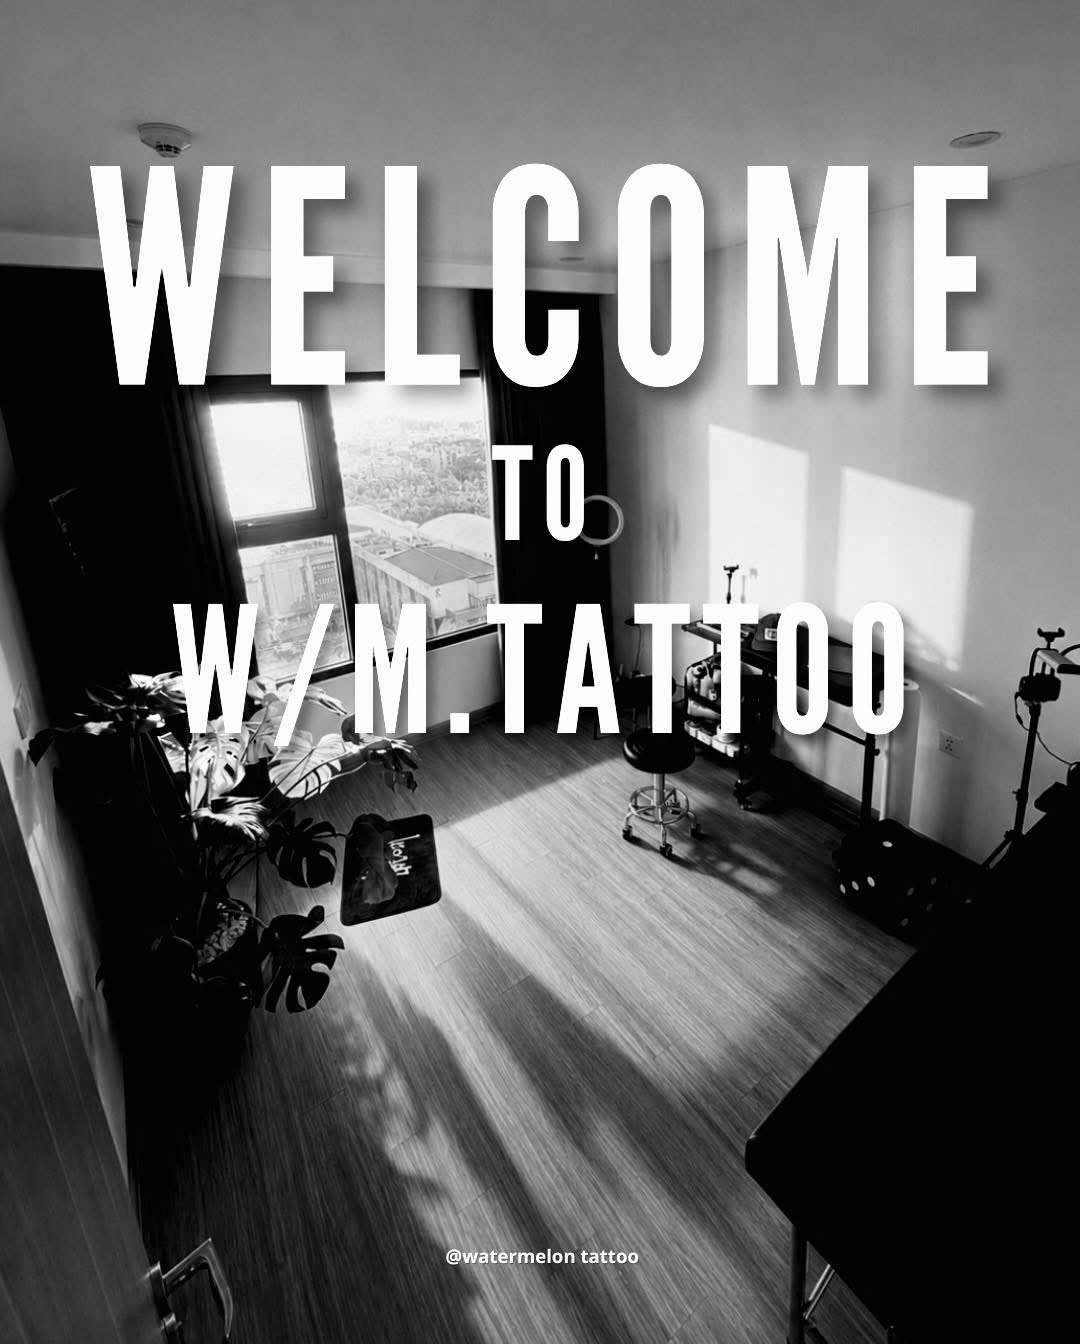
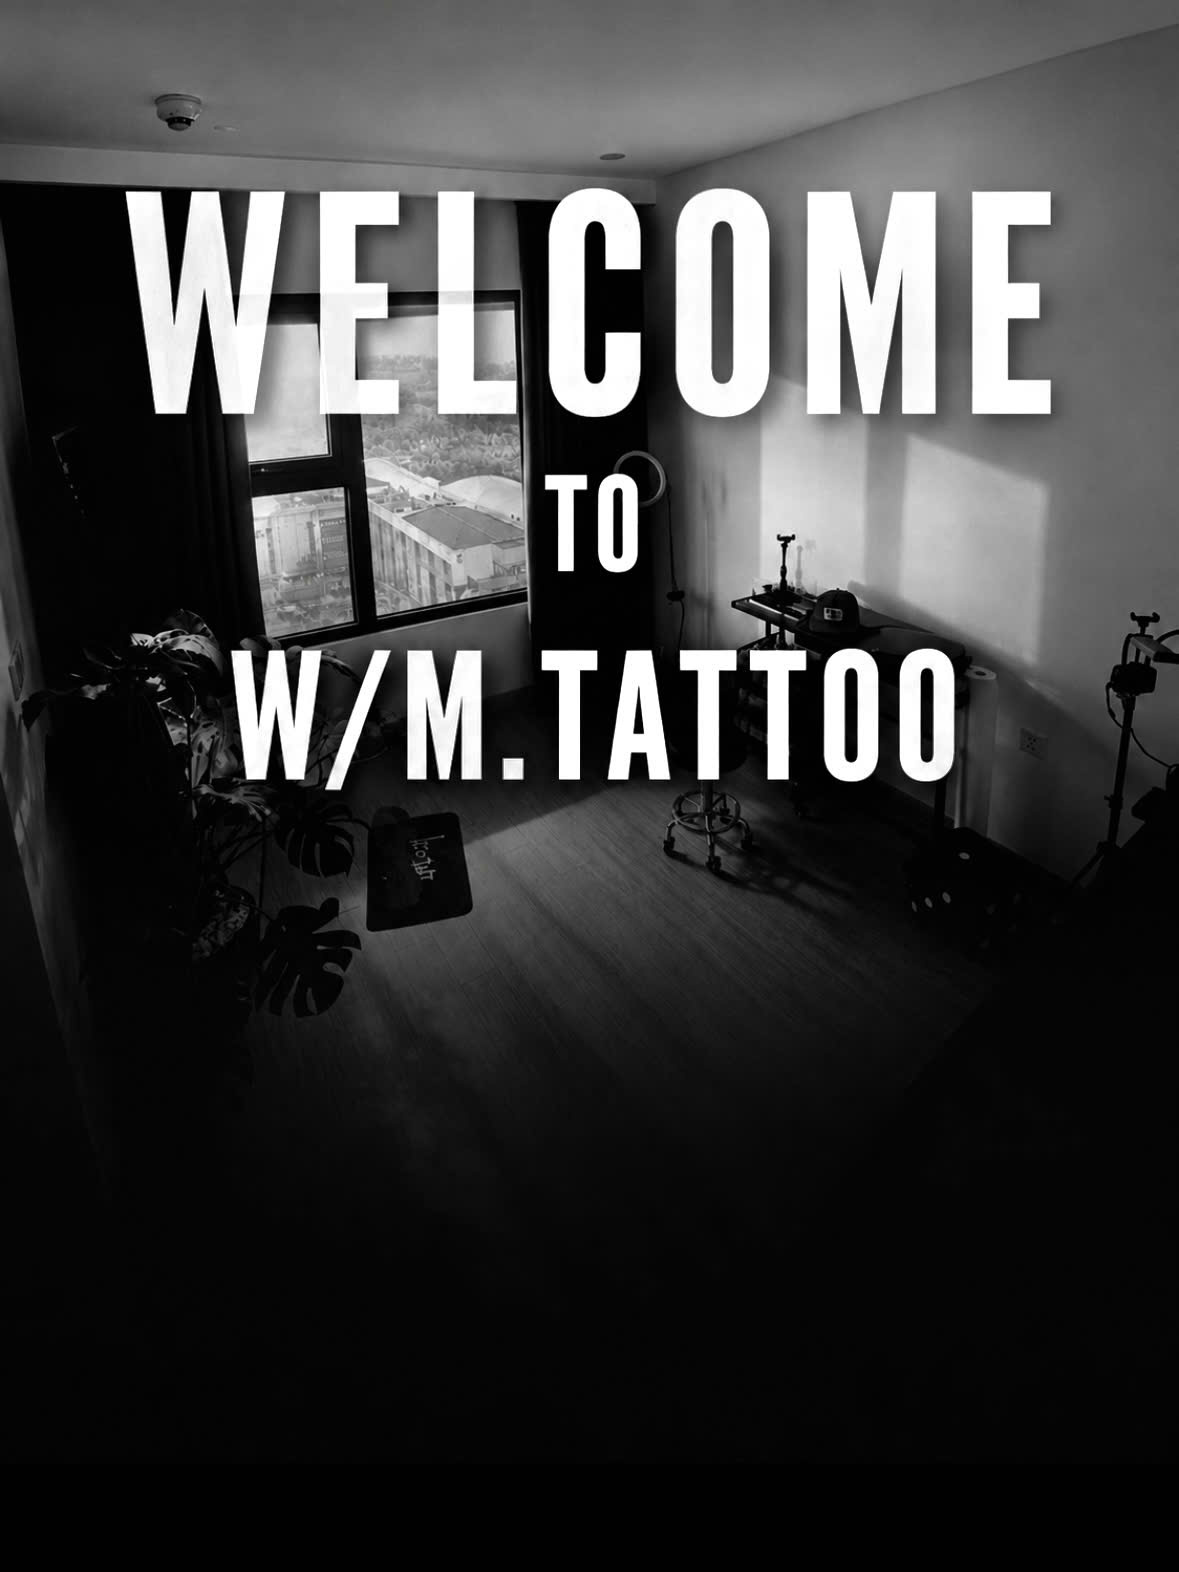
Add files via upload

diff --git a/index.html b/index.html
@@ -62,41 +62,35 @@
             opacity: .45;
         }
 
-        /* HERO */
+        /* HERO — dùng đúng ảnh mở đầu, giữ nguyên toàn bộ bố cục */
         .hero {
             min-height: 100vh;
+            min-height: 100svh;
+            height: 100vh;
             position: relative;
-            display: flex;
-            align-items: flex-end;
             overflow: hidden;
             background: #000;
             isolation: isolate;
         }
 
-        /* Hero ảnh gốc: giữ nguyên khung, không crop */
         .hero::before {
             content: "";
             position: absolute;
             inset: 0;
-            background: url("images/hero-exact.jpg") center center / contain no-repeat;
+            background: url("images/hero-exact.jpg") center center / auto 100% no-repeat;
+            background-color: #000;
             z-index: -2;
         }
 
-        /* Fade nhiều lớp: ảnh tan dần xuống nền đen */
+        /* Ảnh đã có vùng đen/fade ở đáy; chỉ hòa rất nhẹ vào WORK */
         .hero::after {
             content: "";
             position: absolute;
-            inset: 0;
-            background:
-                linear-gradient(
-                    to bottom,
-                    rgba(0,0,0,0) 48%,
-                    rgba(0,0,0,.08) 58%,
-                    rgba(0,0,0,.30) 68%,
-                    rgba(0,0,0,.68) 80%,
-                    #050505 96%,
-                    #050505 100%
-                );
+            left: 0;
+            right: 0;
+            bottom: 0;
+            height: 12%;
+            background: linear-gradient(to bottom, transparent, #050505);
             z-index: -1;
             pointer-events: none;
         }
